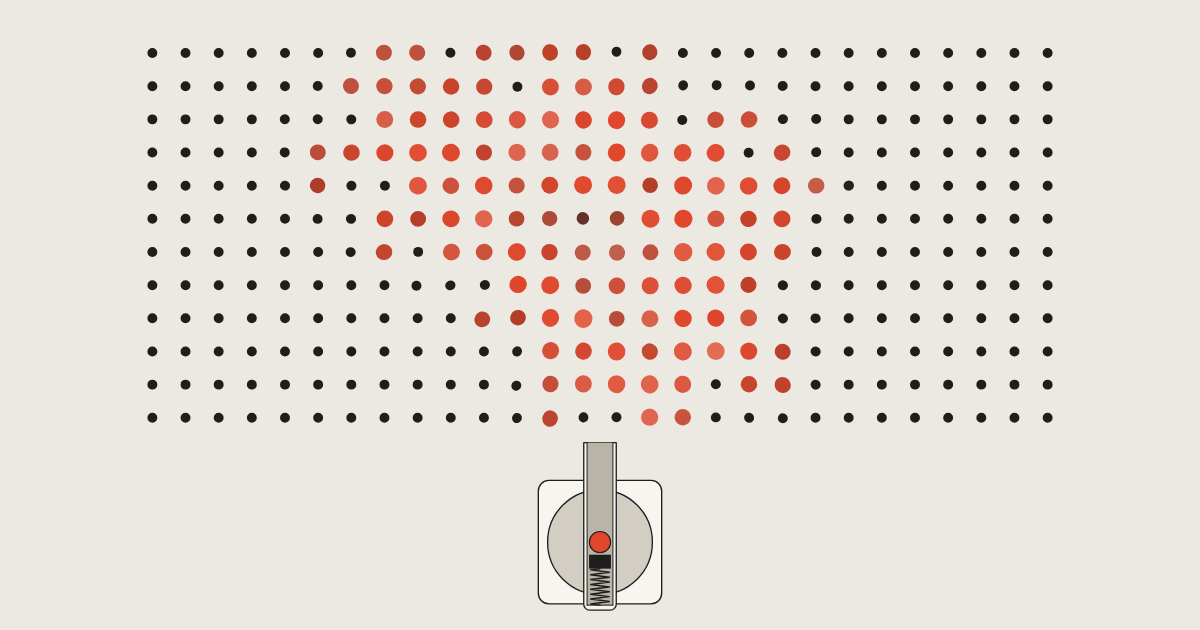
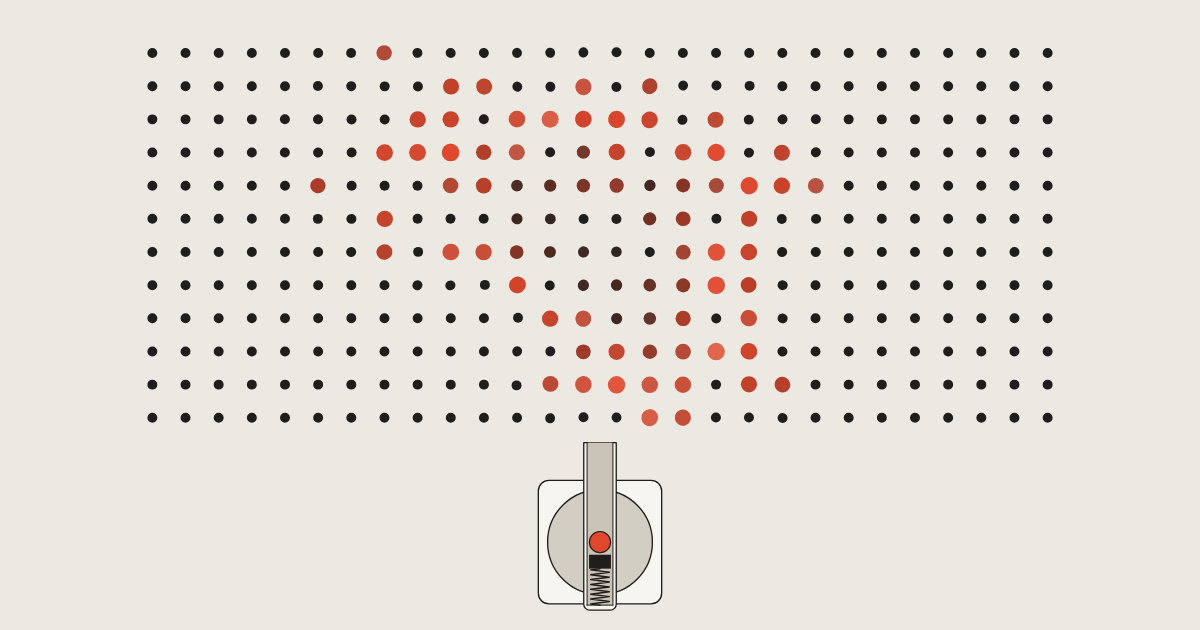
Composure: round 1, the bursts loosened and the shots spread
A burst is a lobed ring that goes out through the pegs and leaves the board composed behind it, the
pegs inside it taking the colour by chance and some a lighter shade; a peg swells as it takes it.
Shots land in the board's middle, step along it in a quick run rather than swinging side to side,
and keep the middle gap for the surprise and the last chord; a mirrored pair stays off the middle
column. The spring is drawn further the harder the accent, the first pellet comes up the lift on
the first note, the launcher is larger and clear of the frame's foot, and the credits fit beside
it. The write-up, the attribution, and the work's line in the versions README.

diff --git a/apps/rube/src/shows/versions/surprise/pegboard/score.ts b/apps/rube/src/shows/versions/surprise/pegboard/score.ts
@@ -90,8 +90,8 @@ const SPECS: Spec[] = [
   { bar: of('var4-on', 3), beat: 2, s: 0.56, color: V4[2] },
   { bar: of('var4-on', 6), s: 0.62, color: V4[3] },
   // The coda.
-  { bar: of('coda', 2), s: 0.28, color: RED },
-  { onset: 329.9, s: 0.22, color: RED, key: 'c1' },
+  { bar: of('coda', 2), s: 0.28, color: RED, at: [0, -5] },
+  { onset: 329.9, s: 0.22, color: RED, key: 'c1', at: [-5, -3] },
   { onset: 331.79, s: 0.2, color: RED, mirrors: 'c1' },
   { onset: LAST, s: 0.24, color: RED, at: MIDDLE },
 ]
@@ -123,8 +123,11 @@ export interface Shot {
   mirrors: number | null
 }
 
+/** How far back a shot of strength `s` draws the spring, of the whole way: the harder the accent, the further. */
+export const depth = (s: number): number => 0.5 + 0.5 * s
+
 /** How far a burst of strength `s` reaches, cells. */
-export const reach = (s: number): number => 2.2 + 7.2 * s
+export const reach = (s: number): number => 2.0 + 6.4 * s
 
 /** The nearest onset to `t`. */
 function onsetNear(t: number): number {
@@ -141,7 +144,7 @@ function quarterAt(t: number): number {
 }
 
 /** The gap for a shot that is not placed by hand: clear of the bursts just gone, with room for its own, an easy swing. */
-function choose(done: Shot[], at: number, s: number, angle: number, window: number, seed: number): Pt {
+function choose(done: Shot[], at: number, s: number, angle: number, window: number, seed: number, paired: boolean): Pt {
   let best: Pt = MIDDLE
   let bestScore = Infinity
   const r = reach(s)
@@ -151,19 +154,28 @@ function choose(done: Shot[], at: number, s: number, angle: number, window: numb
       for (const d of done) {
         const age = at - d.at
         if (age > 14) continue
-        const spread = 0.55 * reach(d.s) + 0.4 * r
+        const spread = 0.45 * reach(d.s) + 0.3 * r
         const dd = (gx - d.target[0]) ** 2 + (gy - d.target[1]) ** 2
-        score += 2.4 * (1 - age / 14) * Math.exp(-dd / (2 * spread * spread))
+        score += 1.6 * (1 - age / 14) * Math.exp(-dd / (2 * spread * spread))
       }
       // Room on the board for most of the burst.
-      const room = Math.min(gx - X0, -X0 - gx, gy - Y0, Y0 + ROWS - 1 - gy)
-      if (room < 0.6 * r) score += (0.6 * r - room) * 0.9
-      // An easy swing, the more so the less time there is for it.
+      // Room on the board for most of the burst: across it, and (the board being wide) a little less up and down it.
+      const across = Math.min(gx - X0, -X0 - gx)
+      const down = Math.min(gy - Y0, Y0 + ROWS - 1 - gy)
+      if (across < 0.75 * r) score += (0.75 * r - across) * 0.9
+      if (down < 0.5 * r) score += (0.5 * r - down) * 0.9
+      // The middle gap is the surprise's, and the last chord's.
+      if (gx === MIDDLE[0] && gy === MIDDLE[1]) score += 2
+      // A shot whose repeat lands in its mirror is off the middle column, or the mirror would be the same gap.
+      if (paired && Math.abs(gx) < 2) score += 3
+      // An easy swing, the more so the less time there is for it: in a quick run the shots step along the board.
       const turn = Math.abs(aimAt([gx, gy]) - angle)
-      score += (0.5 * turn * turn) / Math.max(0.4, window - 0.9)
+      score += (1.4 * turn * turn) / Math.max(0.3, window - 0.9)
+      // The far sides only now and then.
+      score += 0.05 * Math.abs(gx)
       // Not too near the launcher's own foot.
       if (gy > 1) score += (gy - 1) * 0.25
-      score += 0.35 * hash(gx + 40, gy + 40, seed)
+      score += 0.5 * hash(gx + 40, gy + 40, seed)
       if (score < bestScore) {
         bestScore = score
         best = [gx, gy]
@@ -176,6 +188,7 @@ function choose(done: Shot[], at: number, s: number, angle: number, window: numb
 function compose(): Shot[] {
   const shots: Shot[] = []
   const named = new Map<string, Shot>()
+  const paired = new Set(SPECS.map((s) => s.mirrors).filter((k) => k !== undefined))
   let angle = HOME
   let lastLaunch = -Infinity
   SPECS.forEach((spec, i) => {
@@ -185,11 +198,12 @@ function compose(): Shot[] {
     const launch = at - before <= 1.25 ? before : at - quarterAt(at)
     const window = launch - lastLaunch
     const mirrored = spec.mirrors ? named.get(spec.mirrors) : undefined
-    const target: Pt = spec.at ?? (mirrored ? [-mirrored.target[0], mirrored.target[1]] : choose(shots, at, spec.s, angle, window, i))
+    const target: Pt = spec.at ?? (mirrored ? [-mirrored.target[0], mirrored.target[1]] : choose(shots, at, spec.s, angle, window, i, spec.key !== undefined && paired.has(spec.key)))
     const aim = aimAt(target)
-    const reload: [number, number] = Number.isFinite(lastLaunch) ? [lastLaunch + 0.14, lastLaunch + 0.52] : [-1, -0.5]
+    // The first pellet comes up the lift on the music's first note; each after it just after the shot before.
+    const reload: [number, number] = Number.isFinite(lastLaunch) ? [lastLaunch + 0.1, lastLaunch + 0.4] : [beat(1, 1), beat(1, 1) + 0.5]
     const turn = Math.abs(aim - angle)
-    const aimFor = turn < 1e-3 ? 0 : clamp(0.3 + 0.5 * turn, 0.3, 1.1)
+    const aimFor = turn < 1e-3 ? 0 : clamp(0.22 + 0.45 * turn, 0.22, 1.0)
     const big = spec.s >= 0.85
     const most = i === 0 ? 7 : big ? 4 : 3
     const free = BEATS.filter((b) => b.t > reload[1] + aimFor + 0.1 && b.t < launch - 0.12 && (!big || b.beat === 1)).map((b) => b.t)

diff --git a/apps/rube/src/shows/versions/surprise/pegboard/grid.ts b/apps/rube/src/shows/versions/surprise/pegboard/grid.ts
@@ -52,7 +52,7 @@ export interface Burst {
 /** A burst's reach in the direction `a`: lobed, so no two are the same shape and none is a circle. */
 function lobes(seed: number): (a: number) => number {
   const ph = [hash(seed, 1, 7), hash(seed, 2, 7), hash(seed, 3, 7)].map((h) => h * Math.PI * 2)
-  const amp = [0.15 + 0.1 * hash(seed, 4, 7), 0.1 + 0.08 * hash(seed, 5, 7), 0.06]
+  const amp = [0.17 + 0.1 * hash(seed, 4, 7), 0.12 + 0.08 * hash(seed, 5, 7), 0.07]
   return (a) => 1 + amp[0] * Math.sin(2 * a + ph[0]) + amp[1] * Math.sin(3 * a + ph[1]) + amp[2] * Math.sin(5 * a + ph[2])
 }
 
@@ -75,13 +75,13 @@ function burstOf(i: number): Burst {
     const f = d / r
     if (f >= 0.97) return
     const ta = shot.at - tau * Math.log(1 - f)
-    // Loose at the edge: past a third of its reach a peg takes the colour only by chance, less often the further out it
-    // is, and less of it.
-    const chance = 1 - smooth(f, 0.35, 0.97)
+    // Loose all through, and looser at the edge: a peg takes the colour by chance (all four round the gap it lands in),
+    // less often past a third of its reach and the further out it is, and less of it.
+    const chance = d < 1.2 ? 1 : 0.84 * (1 - smooth(f, 0.35, 0.97))
     const w = hash(peg, i, 3) < chance ? 0.6 + 0.4 * (1 - smooth(f, 0.25, 0.95)) * hash(peg, i, 4) ** 0.3 : 0
     // A peg keeps the colour only a moment after the front has passed it, a little longer the further out: so the burst
     // is a ring going out, the board composed again behind it, and the ring thins and goes at its edge.
-    const hold = 0.3 + (0.3 + 0.5 * s) * f + 0.35 * hash(peg, i, 5)
+    const hold = 0.12 + (0.35 + 0.55 * s) * f + 0.3 * hash(peg, i, 5)
     // Not all one colour: some pegs take a lighter shade of it.
     const shade = 0.55 * hash(peg, i, 6) ** 2
     // Pushed hardest near the middle, falling off with distance, and nothing at the edge of its reach.
@@ -93,7 +93,7 @@ function burstOf(i: number): Burst {
     touches.push({ peg, ta, w, hold, amp, ux, uy, shade })
     until = Math.max(until, ta + Math.max(w > 0 ? hold + FADE : 0, RINGS))
   })
-  return { at: shot.at, x, y, color: shot.color, light: mix(shot.color, PAPER, 0.42), s, until, touches }
+  return { at: shot.at, x, y, color: shot.color, light: mix(shot.color, PAPER, 0.34), s, until, touches }
 }
 
 export const BURSTS: readonly Burst[] = SHOTS.map((_, i) => burstOf(i))

diff --git a/apps/rube/src/shows/versions/surprise/pegboard/credits.ts b/apps/rube/src/shows/versions/surprise/pegboard/credits.ts
@@ -25,12 +25,8 @@ export const CREDITS_AT = LAST + 3.2
 
 const script: Omit<Card, 'at'>[] = [
   { hold: 1.9, role: 'Directed by', names: ['Claude Opus 5.5'] },
-  {
-    hold: 3.4,
-    role: 'Music',
-    names: ['Joseph Haydn'],
-    notes: ['Symphony No. 94 in G major, “Surprise”: II. Andante (1791)', 'Berliner Philharmoniker · Herbert von Karajan · Deutsche Grammophon, 1982'],
-  },
+  { hold: 2.8, role: 'Music', names: ['Joseph Haydn'], notes: ['Symphony No. 94 in G major, “Surprise”', 'II. Andante (1791)'] },
+  { hold: 2.8, role: 'Played by', names: ['Berliner Philharmoniker'], notes: ['Herbert von Karajan', 'Deutsche Grammophon, 1982'] },
   { hold: 1.5, role: 'Drawn with', names: ['p5.js'] },
 ]
 
@@ -53,7 +49,7 @@ export const LAST_GONE = (() => {
 export const DURATION = Math.ceil(Math.max(RECORDING, LAST_GONE) + 1.0 - 1e-6)
 
 /** Where a card's top middle sits, as shares of the 16:9 frame: under the board, left of the launcher. */
-const AT: [number, number] = [0.25, 0.775]
+const AT: [number, number] = [0.25, 0.715]
 
 function lightOf(card: Card, t: number): { light: number; rise: number } {
   const up = clamp((t - card.at) / UP)
@@ -67,7 +63,7 @@ export function creditsAt(t: number): TitleCard[] {
   CARDS.forEach((card, i) => {
     const { light, rise } = lightOf(card, t)
     if (light <= 0) return
-    out.push({ key: `composure-${i}`, role: card.role, names: card.names, notes: card.notes, light, rise, at: AT, scale: 0.8, least: 9, dark: true })
+    out.push({ key: `composure-${i}`, role: card.role, names: card.names, notes: card.notes, light, rise, at: AT, scale: 0.62, least: 9, dark: true })
   })
   return out
 }

diff --git a/apps/rube/src/shows/versions/surprise/pegboard/launcher.ts b/apps/rube/src/shows/versions/surprise/pegboard/launcher.ts
@@ -3,7 +3,7 @@ import type { Brush } from './brush'
 import { clamp, easeInOut, lerp, mix, rgba, ring } from './brush'
 import { BLOCK, HOME, PELLET_R, PIVOT, PLINTH, TROUGH, TURNTABLE_R, muzzle } from './geo'
 import { FACE, INK, PLATE, SLOT } from './look'
-import { HOMEWARD, SHOTS, type Shot } from './score'
+import { HOMEWARD, SHOTS, depth, type Shot } from './score'
 
 /**
  * The launcher, seen from above: a plinth, a turntable on it, and on the turntable an open trough with a spring-loaded
@@ -57,14 +57,14 @@ function drawn(s: Shot, t: number): number {
 export function blockAt(t: number): number {
   const i = next(t)
   let u = BLOCK.rest
-  if (i < SHOTS.length) u += (BLOCK.cocked - BLOCK.rest) * drawn(SHOTS[i], t)
+  if (i < SHOTS.length) u += (BLOCK.cocked - BLOCK.rest) * depth(SHOTS[i].s) * drawn(SHOTS[i], t)
   if (i > 0) {
     // Let go: up the trough in an instant, and back to rest on the spring.
     const fired = SHOTS[i - 1]
     const since = t - fired.launch
     if (since < SNAP) {
       const f = since / SNAP
-      return lerp(BLOCK.cocked, BLOCK.fired, Math.pow(f, 1.5))
+      return lerp(BLOCK.rest + (BLOCK.cocked - BLOCK.rest) * depth(fired.s), BLOCK.fired, Math.pow(f, 1.5))
     }
     const v = since - SNAP
     if (v < 1.2) u += (BLOCK.fired - BLOCK.rest) * Math.exp(-9 * v) * Math.cos(v * 3.2 * Math.PI * 2)

diff --git a/apps/rube/src/shows/versions/surprise/pegboard/look.ts b/apps/rube/src/shows/versions/surprise/pegboard/look.ts
@@ -10,11 +10,11 @@ export const PAPER = '#ECE9E2'
 /** The machine's own faces: a lighter paper for the parts on top, a grey for the turntable under them. */
 export const FACE = '#F7F5F0'
 export const PLATE = '#D3CEC4'
-export const SLOT = '#B9B3A8'
+export const SLOT = '#C9C3B8'
 
 /** What the launcher fires. Each variation has its colour; the fourth has all of them. */
 export const RED = '#E0472C'
-export const YELLOW = '#EFA713'
+export const YELLOW = '#E99A0B'
 export const BLUE = '#2652B8'
 export const GREEN = '#1E875A'
 

diff --git a/apps/rube/src/shows/versions/surprise/pegboard/geo.ts b/apps/rube/src/shows/versions/surprise/pegboard/geo.ts
@@ -19,8 +19,8 @@ export const PEGS: readonly Pt[] = (() => {
   return out
 })()
 
-/** The gaps a pellet may land in: away from the board's edge by two pegs. */
-export const GAPS = { x0: X0 + 2.5, x1: -X0 - 2.5, y0: Y0 + 1.5, y1: Y0 + ROWS - 2.5 }
+/** The gaps a pellet may land in: the board's middle, so a burst has the board round it. */
+export const GAPS = { x0: -9, x1: 9, y0: -6, y1: 0 }
 /** The middle gap, where the surprise lands. */
 export const MIDDLE: Pt = [0, -2]
 

diff --git a/apps/rube/src/shows/versions/surprise/opus55.show.ts b/apps/rube/src/shows/versions/surprise/opus55.show.ts
@@ -8,7 +8,7 @@ export default defineShow({
   title: 'Composure',
   label: 'Opus 5.5',
   about: "Haydn's Surprise Symphony as a still board of pegs: on every accent a launcher fires a burst of colour through it, and the board settles back as if nothing had happened.",
-  still: 31,
+  still: 31.2,
   async load() {
     return (await import('./pegboard')).performance
   },

diff --git a/apps/rube/src/shows/versions/surprise/COMPOSURE.md b/apps/rube/src/shows/versions/surprise/COMPOSURE.md
@@ -1,0 +1,80 @@
+# Composure
+
+The Andante of Haydn's Symphony No. 94 in G major, the "Surprise", whole, in Herbert von Karajan's recording with the
+Berlin Philharmonic (Deutsche Grammophon, 1982), played by YouTube from Universal Music Group's own upload (14G_PDZWXVE).
+The recording is copyrighted: nothing of it ships. Attribution is in
+`apps/rube/src/shows/versions/surprise/ATTRIBUTION.txt`.
+
+Open it at `/shows/surprise/` or `/shows/surprise/opus55/` (`/shows/?show=surprise&take=opus55` works too). In the
+picker it is **Composure**, on the **Machine** shelf: one take, **Opus 5.5**. The work's folder is `surprise` (the
+music); the code is `surprise/pegboard/`.
+
+## What it is
+
+An experiment: a still, orderly board of pegs, and a machine at its foot that fires a burst of colour through it on the
+music's accents. Restraint between the accents is the point. The board is the canvas; the accents are the events.
+
+The music was chosen for that. Haydn's Andante is the best-known joke about restraint in music: a theme of plain
+staccato quavers, piano, played again pianissimo with the lower strings plucking, and on the second beat of its sixteenth
+bar the whole orchestra and the timpani, fortissimo, once; and then, as the old description has it, back to the quiet
+as if nothing had happened. The four variations that follow keep that shape at larger scale (a forte chord at the head
+of a strain, a stormy C minor, a quiet oboe, a sweeping fortissimo), and the coda goes back to the theme's head over a
+held C and ends softly. Karajan's recording has the widest gap of the four official uploads compared between the
+pianissimo and the stroke (44 dB in a quarter of a second), and Universal's upload may be embedded.
+
+- **The board**: 28 pegs by 12, a cell apart, black on pale paper. It never moves except when a burst reaches it.
+- **The launcher**, seen from above: a plinth, a turntable on it, and on the turntable an open trough with a
+  spring-loaded block in it. A pellet comes up the lift through the trough's floor at the pivot. The turntable swings
+  to aim. A ratchet draws the block back a click on each of the beats before the shot (on the downbeats for the big
+  ones), the spring closing up behind it, and drawn further the harder the accent. On the beat before the accent the
+  block is let go: the pellet runs up the trough and flies, its shadow on the board, and lands on the accent.
+- **The burst**: the pellet lands in a gap between four pegs and goes in. The colour goes out through the pegs round
+  it, peg by peg, quick at first and slower as it goes, further in some directions than others, and thinning out at
+  its edge. Each peg it reaches takes the colour (some a lighter shade of it), swells, and is pushed outward; it swings
+  back through its place and settles. A peg keeps the colour only a moment after the front has passed it, so the burst
+  is a ring going out with the board composed again behind it, and the ring thins and goes at its edge. A few seconds
+  after, every peg is black and in its place.
+- **The mirror**: every strain of the movement is played twice, and on the repeat every shot lands in the mirror image
+  of where it landed the first time. The surprise lands in the board's middle gap, and so does the last chord.
+
+| Show s | Bars (as played) | Music | Picture |
+| ---: | --- | --- | --- |
+| 1.9 | 1–8 | the theme, piano | the board, still; the first pellet comes up the lift on the first note |
+| 16.6 | 9–16 | the theme again, pianissimo, the lower strings plucking | the spring drawn back a click on each bar |
+| 29.2 | 16, beat 1 | | fired |
+| 30.05 | 16, beat 2 | **the surprise**: fortissimo, timpani | red, the whole middle of the board |
+| 30.7–60 | 17–32 | the second strain, twice | two small reds at its forte, left and then right |
+| 61.1 | 33 | variation 1: a forte chord | yellow |
+| 75.2 | 41 | the forte chord again | yellow, in the mirror |
+| 98.3, 112.6 | 54, 62 | the second strains' forte | small yellows |
+| 118.0–131 | 65–72 | variation 2, C minor: four bars fortissimo, four piano | blue, three shots |
+| 132.6–146 | 73–80 | again | the same three, in the mirror |
+| 147.2–172 | 81–94 | the second strain, fortissimo, to the violins alone | blue, a shot every bar or two |
+| 172–180 | 95–98 | the violins alone, the fermata | still |
+| 180.5–238 | 99–130 | variation 3: the oboe, the flute with it | three small greens |
+| 238.4–252 | 131–138 | variation 4: fortissimo, the violins in triplets | all four colours in turn |
+| 264.1 | 145 | the dolce's sforzando | one small one |
+| 281–284 | | the general pause | still; fired in the silence a quarter before |
+| 284.1–309 | 155–168 | fortissimo to the end of the strain, and on | all four colours, the first five in the mirror |
+| 311.4–334 | 169–181 | the coda | three small reds |
+| 334.37 | 181 | the last chord | the last, in the middle gap; the launcher swings home, empty |
+| 337.6 | | silence | the credits, under the board |
+
+## The measured clock
+
+Measured once by `scripts/shows/surprise-onsets.py` into `scripts/shows/plans/surprise-onsets.json`, from a local
+analysis copy of the upload's audio that is never committed. The orchestra is played, not clocked (a quarter runs from
+0.85 to 0.98 s, it breathes between strains, and it stops twice), so there is no one comb: each of the 22 strains gets
+its own, fitted to the attacks under it from where the strain is heard to begin, and every beat is moved onto its own
+attack where one is within 45 ms. The bars are numbered as they are played, repeats and all, 1 to 181.
+
+`check:shows` holds the show to that file (`apps/rube/checks/composure.ts`): every shot lands on an attack the recording
+has, and is fired on the beat before it; every click of the ratchet is on a beat; the surprise is the first shot, the
+hardest, on beat 2 of bar 16, in the middle gap, and nothing lands before it; every repeat's shots land in the mirror of
+the first time's; the turntable, the block, the pellets and the pegs never jump; between the bursts every peg is black
+and in its place; and the board is composed again before the credits.
+
+## What it is not
+
+There is no ball for the stage to draw, no portal and no cut: one frame, held, for the whole show. Nothing is written on
+the frame. No piece or drawing of another show is used.

diff --git a/apps/rube/src/shows/versions/README.md b/apps/rube/src/shows/versions/README.md
@@ -29,7 +29,7 @@ The folder and file names are addresses, so they are chosen once:
   freely: `come-recover` is **Everything**, `heptapod-b` **Logogram**,
   `interstellar` **Voyage**, `la-la-land` **Epilogue**, `bolero` **Ostinato**,
   `nature-of-daylight` **Palindrome**, `relax` **Magnum**, `time` **Kick**, `step-out` **Quintessence**,
-  `rule-the-world` **Rally**. The write-up says which is which.
+  `rule-the-world` **Rally**, `surprise` **Composure**. The write-up says which is which.
 - **Take**: `<take>.show.ts`, which is also `/shows/<work>/<take>/` and the
   card `public/shows/<work>/<take>.png`. Name it for who made it (`opus55`,
   `fable51`, `grok47`), or with a letter (`take-a`). La La Land's takes keep the
@@ -38,7 +38,7 @@ The folder and file names are addresses, so they are chosen once:
   Takes sort by name, and the first is the work's own page, unless the registry
   puts another first (`PREFERRED_TAKES`: Epilogue's and Cornfield Chase's Opus).
 - **Shelf**: the picker and Theater set the works out as **Machine** (Clair de
-  Lune, Première Arabesque, Cornfield Chase, Raindrop), **Movies** and **Ambient**
+  Lune, Première Arabesque, Cornfield Chase, Raindrop, Composure), **Movies** and **Ambient**
   (Gymnopédie, Soft Lamp, Ostinato). A work is Movies unless `SHELVED` in `../registry.ts` names it.
 - **Favourites**: `FAVORITES` in `../registry.ts` ranks them (Voyage, Epilogue,
   Everything, Clair de Lune). The picker stars them and pins them to the top of
@@ -176,6 +176,21 @@ is new; the show lives in `raindrop/charterhouse/`. Its clock is measured by `sc
 `scripts/shows/plans/raindrop-onsets.json` (the score laid on the recording by dynamic time warping, every note moved
 onto its own attack); `check:shows` holds every landing, tip, knock, stroke and cut to it. The report is
 `apps/rube/src/shows/versions/raindrop/RAINDROP.md`.
+
+`surprise/opus55` (in the picker, **Composure**, on the Machine shelf, one take, **Opus 5.5**) is the Andante of Haydn's
+Symphony No. 94, the "Surprise", whole, in Karajan's recording with the Berlin Philharmonic (Deutsche Grammophon, 1982),
+played by YouTube from Universal Music Group's upload only (14G_PDZWXVE; no recording is shipped:
+`apps/rube/src/shows/versions/surprise/ATTRIBUTION.txt`), and then the end credits in the quiet after it. It is an
+experiment, not a story: a still board of pegs, 28 by 12, and a launcher at its foot, seen from above, one frame for the
+whole show. On each of the music's accents (the surprise first, then the variations' fortes and fortissimos, and the
+coda's last chord) a pellet of colour lands in a gap of the board, fired a beat before; the colour goes out through the
+pegs as a ring, the pegs are pushed and swing back into place, and the board is composed again behind it. Between the
+accents nothing on the board moves; the launcher does its work in the music's time (the lift, the swing, the spring drawn
+back a click a beat). Every strain's repeat lands its shots in the mirror of the first time's. Every piece and drawing is
+new; the code is `surprise/pegboard/`. The orchestra is played, not clocked, so `scripts/shows/surprise-onsets.py` fits
+each strain its own comb and moves every beat onto its own attack, into `scripts/shows/plans/surprise-onsets.json`;
+`check:shows` holds every shot, click and landing to it (`apps/rube/checks/composure.ts`). The report is
+`apps/rube/src/shows/versions/surprise/COMPOSURE.md`.
 
 `metronome/` is not in the picker. It is a worked example of a time map: a
 procedural machine under a steady beat, and a struck bar on every strike,
